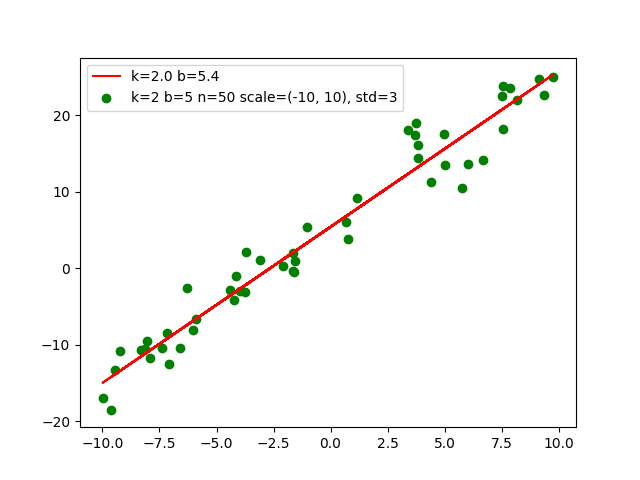
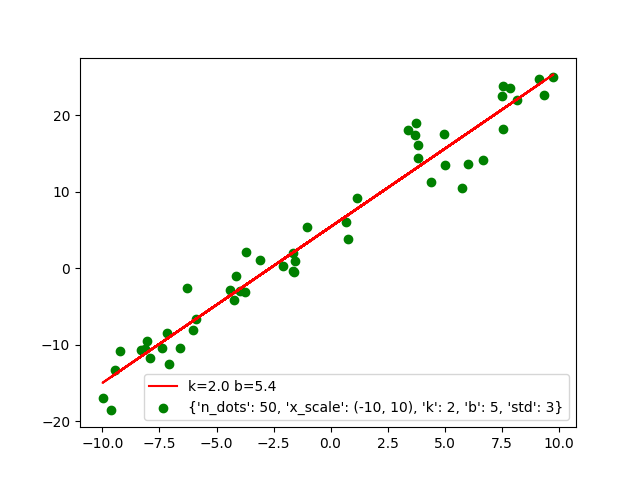
create power_lin_gen and print it)

diff --git a/fun_gen.py b/fun_gen.py
@@ -3,13 +3,6 @@ import numpy as np
 from matplotlib import pyplot as plt
 
 
-def lin_fun_gen(n_dots: int, x_scale: tuple, k: int, b: int, std: int):
-    rng = np.random.RandomState(1)
-    x = x_scale[0] +(x_scale[1]-x_scale[0]) * rng.rand(n_dots)
-    y = k * x + b + std*rng.randn(n_dots)
-    return x, y
-
-
 def approx(x, y):
     n = x.size
     sum_x = x.sum()
@@ -21,22 +14,45 @@ def approx(x, y):
     return k, b
 
 
+def lin_fun_gen(n_dots: int, x_scale: tuple, k: int, b: int, std: int):
+    rng = np.random.RandomState(1)
+    x = x_scale[0] +(x_scale[1]-x_scale[0]) * rng.rand(n_dots)
+    y = k * x + b + std*rng.randn(n_dots)
+    return x, y
+
+
 def draw(x, y, name, inf):
     fig = plt.figure()
     axe = fig.add_subplot()
-    axe.scatter(x, y, c='g', label='k={} b={} n={} scale={}, std={}'.format(inf['k'],
-                                                                            inf['b'],
-                                                                            inf['n_dots'],
-                                                                            inf['x_scale'],
-                                                                            inf['std']))
+    axe.scatter(x, y, c='g', label=str(inf))
     k, b = approx(x, y)
     y_approx = k*x + b
     axe.plot(x, y_approx, c='r', label='k={:2.1f} b={:2.1f}'.format(k, b))
     axe.legend()
-    plt.savefig('image/{}.png'.format(name))
+    plt.savefig('image/{}'.format(name))
+
+
+def power_lin_fun_gen(n_dots: int, x_scale: tuple, w, std: int):
+    rng = np.random.RandomState(1)
+    x = x_scale[0] + (x_scale[1] - x_scale[0]) * rng.rand(n_dots)
+    X = np.array([np.ones(n_dots), x]).T
+    Y = np.matmul(X,np.array(w)) + std*rng.randn(n_dots)
+    return X, Y
+
+
+def power_draw(X, Y, name, inf):
+    fig = plt.figure()
+    axe = fig.add_subplot()
+    axe.scatter(X.T[1], Y, c='g', label=str(inf))
+    axe.legend()
+    plt.savefig('image/{}'.format(name))
 
 
 if __name__ == '__main__':
+    inf = {'n_dots': 50, 'x_scale': (-10, 10), 'w': [5, 3], 'std': 3}
+    X, Y = power_lin_fun_gen(**inf)
+    power_draw(X, Y, name='second', inf=inf)
+
     inf = {'n_dots': 50, 'x_scale': (-10, 10), 'k': 2, 'b': 5, 'std': 3}
     x, y = lin_fun_gen(**inf)
     draw(x, y, 'first', inf)
